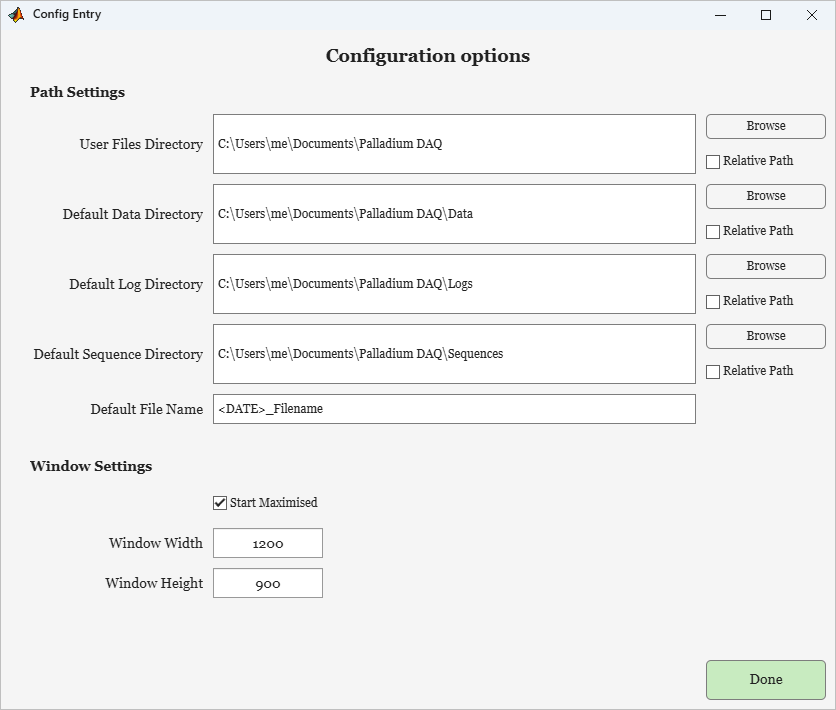
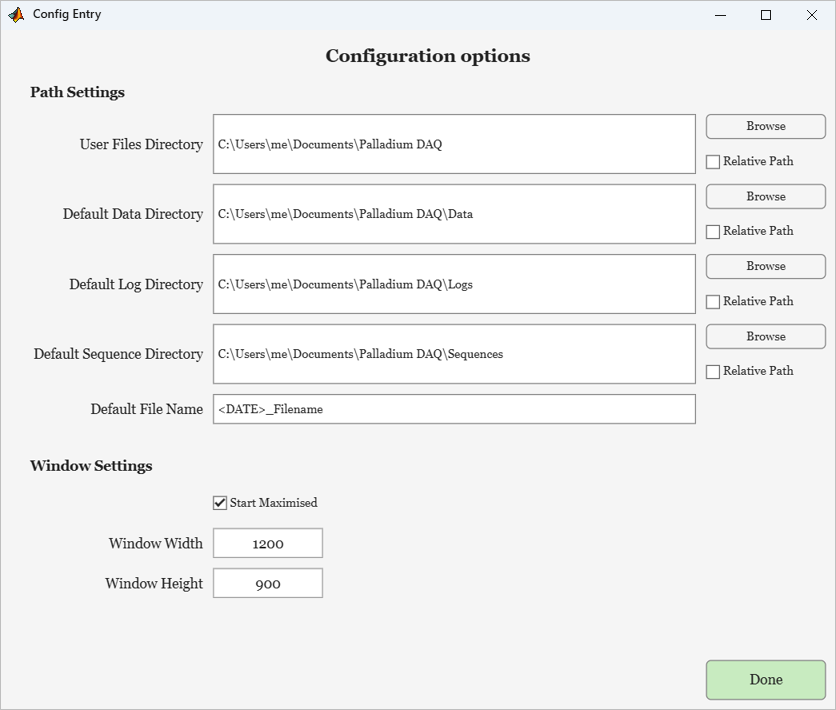
Build without Java; version subtitle on docs index
- buildfile: compute SHA-256 with the OS's certutil/shasum/sha256sum
  instead of java.security (not bundled with MATLAB R2026b)
- Docs index: show "Version X.Y.Z" as a subtitle under the title, filled
  in at build time, instead of a code block that prints it
- Regenerated GUI screenshots and their source fingerprint

diff --git a/buildfile.m b/buildfile.m
@@ -95,6 +95,12 @@ for i = 1 : numel(srcFiles)
     dest = fullfile(destFolder, srcFiles(i).name);
     copyfile(fullfile(srcFiles(i).folder, srcFiles(i).name), dest);
     if endsWith(dest, ".md")
+        if srcFiles(i).name == "index.md"
+            %Fill in the version, so the page needn't show code to print it
+            text = replace(fileread(dest, Encoding="UTF-8"), "{{version}}", ...
+                Palladium.ver().VersionString);
+            writelines(text, dest, Encoding="UTF-8");
+        end
         mdCopies(end+1) = dest; %#ok<AGROW>
     end
 end
@@ -221,7 +227,7 @@ for folder = GuiSourceFolders()
         files = [files, string(fullfile({listing.folder}, {listing.name}))]; %#ok<AGROW>
     end
 end
-digest = java.security.MessageDigest.getInstance("SHA-256");
+allBytes = uint8([]);
 for file = sort(files)
     fid = fopen(file, "r");
     bytes = fread(fid, Inf, "*uint8");
@@ -229,9 +235,14 @@ for file = sort(files)
     if endsWith(file, ".m")
         bytes(bytes == 13) = []; %Drop CRs
     end
-    digest.update(typecast(bytes, "int8"));
+    allBytes = [allBytes; bytes]; %#ok<AGROW>
 end
-hash = string(sprintf("%02x", typecast(digest.digest(), "uint8")));
+combined = string(tempname);
+cleanup = onCleanup(@() delete(combined));
+fid = fopen(combined, "w");
+fwrite(fid, allBytes, "uint8");
+fclose(fid);
+hash = FileSha256(combined);
 end
 
 function WarnIfScreenshotsStale(imagesFolder)
@@ -357,12 +368,18 @@ end
 
 function hash = FileSha256(file)
 %SHA-256 of a file, as a lower-case hex string
-fid = fopen(file, "r");
-bytes = fread(fid, Inf, "*uint8");
-fclose(fid);
-digest = java.security.MessageDigest.getInstance("SHA-256");
-digest.update(typecast(bytes, "int8"));
-hash = string(sprintf("%02x", typecast(digest.digest(), "uint8")));
+%Uses the OS's own tool rather than Java, which newer MATLAB doesn't bundle
+if ispc
+    command = "certutil -hashfile """ + file + """ SHA256";
+elseif ismac
+    command = "shasum -a 256 """ + file + """";
+else
+    command = "sha256sum """ + file + """";
+end
+[status, output] = system(command);
+hash = lower(string(regexp(output, "\<[0-9a-fA-F]{64}\>", "match", "once")));
+assert(status == 0 && strlength(hash) == 64, "BuildFile:Sha256Failed", "%s", ...
+    "Could not compute the SHA-256 of " + file + ":" + newline + string(output));
 end
 
 function EnsureDocMaker()

diff --git a/Palladium DAQ/DocsSrc/developers/build-pipeline.md b/Palladium DAQ/DocsSrc/developers/build-pipeline.md
@@ -73,7 +73,7 @@ The task's inputs include `Palladium.m`, so a version bump rebuilds the guide. B
 The pages are converted with [MathWorks DocMaker](https://github.com/mathworks/docmaker) (an add-on, currently version 0.7). DocMaker only builds in place - it writes each HTML page next to its `.md`, and the index and search database next to `helptoc.md` - so `docTask`:
 
 1. Empties `Docs`, keeping only `GettingStarted.m` (built by `gettingStarted`) and `.gitkeep`.
-2. Copies the sources - Markdown pages and images - from `DocsSrc` into `Docs`, keeping their folder structure (`GettingStarted.md` is not a DocMaker page and is skipped). It also warns if the GUI screenshots look out of date (see below).
+2. Copies the sources - Markdown pages and images - from `DocsSrc` into `Docs`, keeping their folder structure (`GettingStarted.md` is not a DocMaker page and is skipped). It replaces `{{version}}` in the copy of `index.md` with the version from `Palladium.ver()`. It also warns if the GUI screenshots look out of date (see below).
 3. Converts each page to HTML with `docconvert`, using the light theme (which suits MATLAB's Help browser). Links to `.md` pages become links to `.html` pages.
 4. Runs the MATLAB code blocks in the pages with `docrun`, inserting their output and figures (not in the API reference).
 5. Builds `info.xml`, `helptoc.xml` and the search database from `helptoc.md` with `docindex`.

diff --git a/Palladium DAQ/DocsSrc/index.md b/Palladium DAQ/DocsSrc/index.md
@@ -1,5 +1,7 @@
 # Palladium DAQ
 
+*Version {{version}}*
+
 Palladium DAQ is a modular framework for laboratory data acquisition: instrument control, data logging and real-time graphing, built in MATLAB. It includes a library of instrument drivers for common lab hardware - multimeters, source meters, lock-in amplifiers, temperature controllers, magnet power supplies and more - and adding new ones is straightforward. It grew out of condensed matter physics labs, where a cryostat's temperature controllers and magnet power supplies run alongside the measurement electronics, but it suits any setup where several instruments are read together over time.
 
 ## Features
@@ -24,11 +26,5 @@ Palladium DAQ can run with its default GUI, with an alternative GUI, or with no 
 * [Writing an instrument driver](writing-instruments.md) and [Python instruments](python-instruments.md) - adding your own hardware
 * [API reference](reference/index.md) - the classes, their properties and methods
 * [Developers](developers/index.md) - working on Palladium DAQ itself
-
-The version installed is:
-
-```matlab
-disp(Palladium.ver().FullVersionString)
-```
 
 Palladium DAQ is developed by M.J. Coak at the University of Birmingham, on [GitHub](https://github.com/MattCoak-Research/PalladiumDAQ). It is under active development - contributions and bug reports are welcome.
